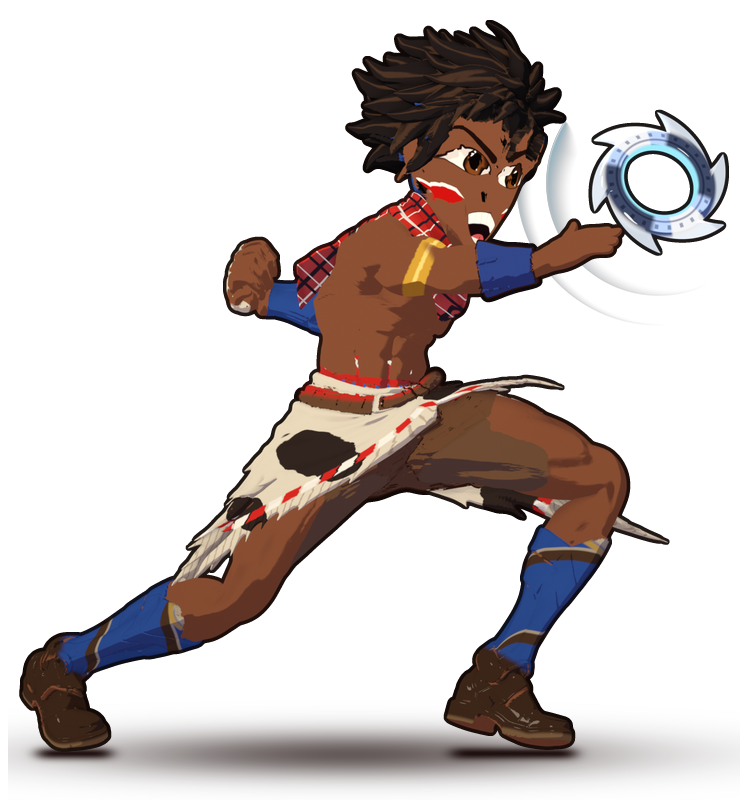
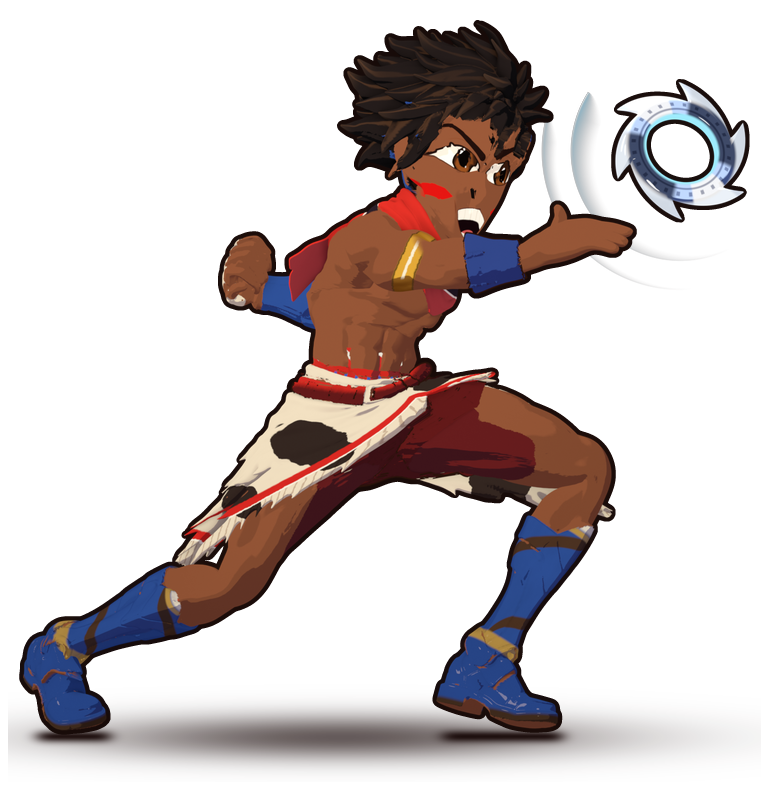
Hero key art k10 (won its blind A/B against k9; no sun on the hero): brighter clean key without cast shadows, three crisp skin bands, wrapped brass armlet, bold red scarf, kilt spikes and shreds cut away with a calm red hem, maroon underwrap, designed blue-and-gold boots, bigger releasing throw hand

Changed region(s): [[0.0307, 0.0, 0.984, 0.9418]]

diff --git a/New/tools/art/blender/hero_toon_aaa.py b/New/tools/art/blender/hero_toon_aaa.py
@@ -53,7 +53,8 @@ BANDS = {
 ## (linear; sRGB (0.52, 0.31, 0.2)) in three bands: a cool plum shade, a mid, a warm orange light, soft between
 SKIN = (0.237, 0.0757, 0.0331)  ## (key art k4: round 16's warm brown again; k2's cooler one "lit by a different light")  ## (key art k2: deeper and cooler, sRGB (0.45, 0.27, 0.19), "the same orange as the sky")
 SKIN_BANDS = {"day": ((0.62, 0.45, 0.62), (0.9, 0.82, 0.8), (1.16, 1.0, 0.82)),
-              "sunset": ((0.55, 0.5, 0.6), (0.55, 0.5, 0.6), (1.12, 1.07, 1.02))}  ## (k9, the user: "professional, AAA": a clean
+              "sunset": ((0.56, 0.5, 0.6), (1.0, 0.96, 0.92), (1.3, 1.24, 1.15))}  ## (k10: three bands, a soft cool
+## shade, his base and a bright lit plane where the key faces him: "darker and muddier than his surroundings")  ## (k9, the user: "professional, AAA": a clean
 ## key on his true colours: a near-white light, a soft, slightly cool shade, no sunset tint)  ## (k9 first, "no cool shade on the camera side:
 ## pasted on": a mauve shade, the light warm; k7 ((0.62, 0.37, 0.4), (1.14, 0.9, 0.7)))  ## (k7: a warm red-brown shade, "olive,
 ## muddy": was (0.56, 0.4, 0.56))  ## (key art k2: two tones, a plum shade
@@ -89,7 +90,7 @@ BOLD_STOPS = (0.0, 0.155, 0.185, 1.0)
 ## the face small, dark, blank; the ring a flat grey donut") the interface pictures (sunset): the skin and hands one
 ## clean colour (the albedo's mean; the face keeps its painted features), a warm shade (not a muddy purple-brown) and
 ## a slightly softer step, the face lit, the steel ring dark at its core and bright on its polish
-UI_FLAT = {"skin": SKIN, "hand": SKIN, "face": SKIN, "fur": (0.78, 0.7, 0.56), "belt": (0.15, 0.07, 0.033),
+UI_FLAT = {"skin": SKIN, "hand": SKIN, "face": SKIN, "fur": (0.78, 0.7, 0.56), "belt": (0.12, 0.011, 0.012),
            "armour_blue": (0.025, 0.075, 0.3), "armour_silver": (0.36, 0.33, 0.29)}  ## (k2: the blue desaturated, "royal-blue plastic stickers")  ## (round 14: flat, "mottled noise on the boots")  ## (linear: the albedo picture's mean skin, sRGB (0.588, 0.325, 0.189))
 UI_BANDS = {"skin": ((0.62, 0.4, 0.33), (1.12, 0.93, 0.78)), "hand": ((0.64, 0.42, 0.35), (1.12, 0.93, 0.78)),
             "face": ((0.84, 0.66, 0.58), (1.16, 0.98, 0.85)), "chakram": ((0.12, 0.15, 0.3), (1.3, 1.3, 1.36)),
@@ -99,7 +100,7 @@ UI_BANDS = {"skin": ((0.62, 0.4, 0.33), (1.12, 0.93, 0.78)), "hand": ((0.64, 0.4
 DAY_PURPLE = (1.556, 0.717, 2.185)  ## the savanna's evening purple (sRGB (0.6, 0.42, 0.7)) at a luminance of 1 (linear)
 DAY_PURPLE_K = 0.35  ## how far his shade turns to it in the level (round 14)
 UI_MAGENTA = (2.46, 0.61, 0.54)  ## the sunset's warm rose (sRGB (0.85, 0.45, 0.42)) at a luminance of 1 (linear)
-CLEAN_LIT = (1.08, 1.04, 1.0)  ## (key art k9, the user: "light him cleanly": one near-white key, a soft cool shade, the
+CLEAN_LIT = (1.16, 1.12, 1.08)  ## (k10: a brighter key; k9 (1.08, 1.04, 1.0))  ## (key art k9, the user: "light him cleanly": one near-white key, a soft cool shade, the
 CLEAN_SHADE = (0.55, 0.5, 0.6)  ## costume's own colours, no sunset wash)
 CLEAN_REGIONS = ("fur", "armour_blue", "armour_silver", "scarf", "belt")
 UI_MAGENTA_K = 0.0  ## (k9, the user: no sunset colour in his shade)  ## (round 14: "a touch of sunset magenta in his shadows"; round 15, "the sun right behind him, yet no
@@ -140,7 +141,7 @@ COW_DARK = (0.03, 0.018, 0.014)  ## (k9: black-brown; k7 (0.085, 0.032, 0.018)) 
 COW_SPOTS_FRONT = ((-0.058, 0.004, 0.034, 0.028), (0.052, 0.04, 0.026, 0.022), (-0.104, -0.08, 0.022, 0.02))
 COW_SPOTS_BACK = ((0.05, -0.06, 0.03, 0.026), (-0.07, -0.03, 0.026, 0.024))
 WRAP_STRAP = (0.07, 0.032, 0.016)  ## (key art k9, "plastic socks") the shin guards' binding straps, dark leather
-GUARD_CUFF = (0.5, 0.4, 0.26)  ## and their top cuff, a cream hide
+GUARD_CUFF = (0.72, 0.65, 0.52)  ## and their top cuff, white fur (k10; k9 a cream hide (0.5, 0.4, 0.26))
 HEM_BEADS = ((0.62, 0.02, 0.015), (0.85, 0.8, 0.68))  ## red, white (linear; k9: no blue, "no clear 2-3 colour identity")
 SASH_RED = (0.62, 0.025, 0.018)
 BOOT_LEATHER = (0.05, 0.022, 0.011)  ## the foot's leather (sRGB ~ (0.25, 0.16, 0.1)), with a gloss
@@ -350,7 +351,7 @@ def build(m, mode="day"):
         L = g.math("ADD", L, g.math("MULTIPLY", g.smooth(height, 0.0, 0.3), CHEST_LIFT))
     if region == "hair":  # the locks: their own terminator, broken per lock (round 15: big locks, "a fuzzy helmet")
         lock = g.noise(P, (9.0, 9.0, 9.0), 0.0, 0.4)  # (key art k3: 16 -> 9, 5-7 big locks, "a pineapple top")
-        L = g.math("ADD", L, g.math("MULTIPLY", g.math("SUBTRACT", lock, 0.5), 0.12 if mode == "sunset" else 0.3))  # (k9: "noisy highlights")
+        L = g.math("ADD", L, g.math("MULTIPLY", g.math("SUBTRACT", lock, 0.5), 0.3))  # (k10: k7's grouped locks back)
     deep, shade, mid, lit = BANDS[mode][region]
     ramp = g.node("ShaderNodeValToRGB")
     ramp.color_ramp.interpolation = "LINEAR"
@@ -372,7 +373,7 @@ def build(m, mode="day"):
             b3 = SKIN_BANDS[mode]
             lift = 1.08 if region == "face" else 1.0  # (the face a little lighter: it leads)
             cols = tuple(tuple(c * lift for c in b) for b in (b3[0], b3[0], b3[1], b3[1], b3[2], b3[2]))
-            stops = SKIN_STOPS if mode == "day" else (0.0, 0.1, 0.12, 0.2, 0.3, 1.0)  # (k2: one soft turn)
+            stops = SKIN_STOPS if mode == "day" else (0.0, 0.1, 0.13, 0.6, 0.66, 1.0)  # (k10: crisp edges between three bands; k2: one soft turn)
     else:
         stops, cols = STOPS, (deep, deep, shade, shade, mid, mid, lit, lit)
     el[0].position, el[0].color = stops[0], (*cols[0], 1)
@@ -418,16 +419,20 @@ def build(m, mode="day"):
                 sp = g.math("FRACT", g.math("DIVIDE", g.math("ADD", g.math("MULTIPLY", height, 52.0), ang), 6.2832))
                 strap = g.math("MULTIPLY", g.math("MULTIPLY", g.smooth(sp, 0.0, 0.02), g.smooth(sp, 0.16, 0.13)), guard)
                 alb = g.mix("MIX", strap, alb, WRAP_STRAP)
-                edge_l = g.math("MULTIPLY", g.math("MULTIPLY", g.smooth(sp, 0.12, 0.14), g.smooth(sp, 0.17, 0.155)), guard)
-                alb = g.mix("MIX", g.math("MULTIPLY", edge_l, 0.8), alb, GUARD_CUFF)
                 cuff = g.math("MULTIPLY", g.smooth(height, -0.246, -0.24), g.smooth(height, -0.214, -0.22))
                 alb = g.mix("MIX", cuff, alb, GUARD_CUFF)
+                # (key art k10, "laced brown shoes and blue sports socks: football kit, hiking boots") one designed boot:
+                # the foot in the guard's blue, a brass band round the ankle, a dark sole
+                foot = g.smooth(height, -0.405, -0.415)
+                alb = g.mix("MIX", foot, alb, g.mix("MULTIPLY", 1.0, UI_FLAT["armour_blue"], (0.85, 0.85, 0.9)))
+                ankle = g.math("MULTIPLY", g.smooth(height, -0.42, -0.416), g.smooth(height, -0.4, -0.404))
+                alb = g.mix("MIX", ankle, alb, BOOT_BRASS)
                 band = g.math("MULTIPLY", g.smooth(height, -0.253, -0.25), g.smooth(height, -0.243, -0.246))
             else:
                 band = g.math("MULTIPLY", g.smooth(height, -0.252, -0.246), g.smooth(height, -0.226, -0.232))
             alb = g.mix("MIX", band, alb, BOOT_BRASS)
-            sole = g.smooth(height, -0.491, -0.496) if mode == "sunset" else g.smooth(height, -0.466, -0.476)
-            alb = g.mix("MIX", sole, alb, BOOT_SOLE)  # (key art k7: in the pictures only its edge; it tanned half the shoe)
+            sole = g.smooth(height, -0.488, -0.494) if mode == "sunset" else g.smooth(height, -0.466, -0.476)
+            alb = g.mix("MIX", sole, alb, (0.05, 0.025, 0.013) if mode == "sunset" else BOOT_SOLE)  # (key art k7: in the pictures only its edge; it tanned half the shoe)
         if region == "fur":
             alb = g.mix("MULTIPLY", 1.0, albedo, (1.0, 0.97, 0.9))  # warm cream, never grey paper
         if region == "belt" and mode == "sunset" and BOLD and (not flat or m.name.startswith("AAA_underwrap")):
@@ -491,16 +496,16 @@ def build(m, mode="day"):
         # the hem's line: on the front apron a V, highest near the middle (rest: z -0.002 at y 0.02, falling 0.95 a unit
         # sideways); behind, level; the beaded band a little above it, a fringe of strands below the band
         hem_f = g.math("SUBTRACT", -0.002, g.math("MULTIPLY", g.math("ABSOLUTE", g.math("SUBTRACT", sepr.outputs["Y"], 0.02)), 0.95))
-        hem_z = g.math("ADD", g.math("MULTIPLY", hem_f, front_k), g.math("MULTIPLY", -0.125, g.math("SUBTRACT", 1.0, front_k)))
+        hem_z = g.math("ADD", g.math("MULTIPLY", hem_f, front_k), g.math("MULTIPLY", -0.163, g.math("SUBTRACT", 1.0, front_k)))  # (k10: the back cut clean at -0.165)
         rel = g.math("SUBTRACT", height, g.math("ADD", hem_z, 0.028))
         hem = g.math("MULTIPLY", g.smooth(rel, -0.001, 0.001), g.smooth(rel, 0.013, 0.011))
         fringe = g.math("MULTIPLY", g.smooth(rel, 0.0, -0.002), g.smooth(g.math("FRACT", g.math("MULTIPLY", sepr.outputs["Y"], 140.0)), 0.75, 0.85))
         colour = g.mix("MULTIPLY", g.math("MULTIPLY", fringe, 0.6), colour, (0.5, 0.36, 0.3))
-        ang_h = g.math("ARCTAN2", sepr.outputs["Y"], sepr.outputs["X"])
-        cyc = g.math("FRACT", g.math("MULTIPLY", ang_h, 30.0 / 6.2832))
-        for i, bead in enumerate(HEM_BEADS):
-            on = g.math("MULTIPLY", g.smooth(g.math("ABSOLUTE", g.math("SUBTRACT", cyc, (i + 0.5) / len(HEM_BEADS))), 0.5 / len(HEM_BEADS) - 0.02, 0.5 / len(HEM_BEADS) - 0.06), hem)
-            colour = g.mix("MIX", on, colour, g.mix("MULTIPLY", 1.0, g.mix("MULTIPLY", 1.0, ramp.outputs["Color"], (1.1, 1.1, 1.1)), bead))
+        # (key art k10, "the red-and-white candy-cane hem looks like barber tape") a calm band: solid red, one white
+        # line along its lower edge
+        colour = g.mix("MIX", hem, colour, g.mix("MULTIPLY", 1.0, ramp.outputs["Color"], HEM_BEADS[0]))
+        line = g.math("MULTIPLY", g.smooth(rel, -0.0025, -0.001), g.smooth(rel, 0.0012, 0.0002))
+        colour = g.mix("MIX", line, colour, g.mix("MULTIPLY", 1.0, ramp.outputs["Color"], HEM_BEADS[1]))
         sepu = g.node("ShaderNodeSeparateXYZ")
         g.link(geo.outputs["Normal"], sepu.inputs[0])
         colour = g.mix("MULTIPLY", g.math("MULTIPLY", g.smooth(sepu.outputs["Z"], 0.1, -0.5), 0.35), colour, (0.7, 0.62, 0.66))
@@ -533,7 +538,7 @@ def build(m, mode="day"):
         # (round 15, all three judges: "grey, silver-blue: reads aged") black hair: a warm band of light across the
         # big locks (sRGB (0.42, 0.27, 0.17) at its brightest), no blue-grey sheen, no grey third step
         locks = g.smooth(g.noise(P, (9.0, 9.0, 9.0), 0.0, 0.4), 0.4, 0.6)
-        band = g.math("MULTIPLY", band, g.math("ADD", g.math("MULTIPLY", locks, 0.7 if mode == "day" else 0.15), 0.3 if mode == "day" else 0.85))
+        band = g.math("MULTIPLY", band, g.math("ADD", g.math("MULTIPLY", locks, 0.7), 0.3))
         colour = g.mix("ADD", g.math("MULTIPLY", band, 0.85 if mode == "day" else 0.45), colour, (0.15, 0.06, 0.022))  # (k1's 1.2 lost; k5: near-black in the picture)  # (round 17: 0.5, "a smudge")
         sd = BOLD_RIM[mode][2]
         toward_sun = g.math("ADD", g.math("MULTIPLY", sep.outputs["X"], sd[0]), g.math("MULTIPLY", sep.outputs["Y"], sd[1]))
@@ -544,7 +549,7 @@ def build(m, mode="day"):
         g.link(P, cen.inputs[0])
         cen.inputs[1].default_value = HAIR_CENTRE
         tips = g.smooth(cen.outputs["Value"], 0.1, 0.16)
-        colour = g.mix("MIX", g.math("MULTIPLY", tips, 0.6 if mode == "day" else 0.2), colour, HAIR_TIPS)
+        colour = g.mix("MIX", g.math("MULTIPLY", tips, 0.6 if mode == "day" else 0.75), colour, HAIR_TIPS if mode == "day" else (0.13, 0.065, 0.035))  # (k10: "spiky, grouped locks with lighter tips")
     if region == "chakram":
         # engraving: a groove round the blade and a ring of notched marks, darker; a polished outer edge
         oc = uv.outputs["Object"]
@@ -582,15 +587,16 @@ def build(m, mode="day"):
     if region == "scarf" and mode == "sunset" and BOLD and not flat:
         # (key art k8) a red shuka: a check of thin dark lines with a white line beside each, in the cloth's own light;
         # (k9, "two or three folds and a shade tone") two broad diagonal folds across it, each a darker trough
-        fold = g.math("SINE", g.math("MULTIPLY", g.math("ADD", sepr.outputs["Z"], g.math("MULTIPLY", sepr.outputs["Y"], 0.8)), 75.0))
-        trough = g.smooth(fold, 0.35, 0.85)
-        colour = g.mix("MULTIPLY", g.math("MULTIPLY", trough, 0.55), colour, (0.55, 0.32, 0.42))
-        for ax, per in (("X", 38.0), ("Z", 38.0)):
-            v = g.math("FRACT", g.math("MULTIPLY", sepr.outputs[ax], per))
-            dark = g.smooth(g.math("ABSOLUTE", g.math("SUBTRACT", v, 0.5)), 0.43, 0.45)
-            white = g.smooth(g.math("ABSOLUTE", g.math("SUBTRACT", v, 0.38)), 0.035, 0.02)
-            colour = g.mix("MIX", white, colour, g.mix("MULTIPLY", 1.0, ramp.outputs["Color"], SCARF_LINES[1]))
-            colour = g.mix("MIX", dark, colour, g.mix("MULTIPLY", 1.0, ramp.outputs["Color"], SCARF_LINES[0]))
+        # (key art k10, "the fine tartan check turns to noise at phone size: lumberjack flannel") bold red cloth: one
+        # broad black stripe edged in white round it, and big folds, each a darker trough
+        fold = g.math("SINE", g.math("MULTIPLY", g.math("ADD", sepr.outputs["Z"], g.math("MULTIPLY", sepr.outputs["Y"], 0.8)), 42.0))
+        trough = g.smooth(fold, 0.2, 0.9)
+        colour = g.mix("MULTIPLY", g.math("MULTIPLY", trough, 0.6), colour, (0.5, 0.28, 0.38))
+        zz = g.math("ABSOLUTE", g.math("SUBTRACT", sepr.outputs["Z"], 0.279))
+        black = g.smooth(zz, 0.0085, 0.0075)
+        white = g.math("MULTIPLY", g.smooth(zz, 0.0105, 0.0095), g.smooth(zz, 0.0075, 0.0085))
+        colour = g.mix("MIX", white, colour, g.mix("MULTIPLY", 1.0, ramp.outputs["Color"], SCARF_LINES[1]))
+        colour = g.mix("MIX", black, colour, g.mix("MULTIPLY", 1.0, ramp.outputs["Color"], SCARF_LINES[0]))
     if region in ("skin", "hand") and mode == "sunset" and BOLD and not flat:
         # (key art k8) the gold armlet round each upper arm: a band across the arm, a bright line round its middle
         (c0, c1, c2), (d0, d1, d2) = ARM_AXIS
@@ -603,9 +609,15 @@ def build(m, mode="day"):
                                         g.math("MULTIPLY", dz, dz)), g.math("MULTIPLY", t, t))
         band = g.math("MULTIPLY", band, g.smooth(r2, 0.0016, 0.0012))  # (only round the arm: within 4 cm of its axis)
         gold = g.mix("MIX", g.smooth(L, 0.16, 0.24), GOLD_SHADE, GOLD)  # its own two values: brown-gold, gold
+        # (key art k10, "a sticky note or tape: no form, no metal highlight") brass wrapping the arm: darker as it turns
+        # away, a dark line along both edges, one crisp highlight where it faces us
+        gold = g.mix("MULTIPLY", g.math("MULTIPLY", g.smooth(edge, 0.2, 0.75), 0.75), gold, (0.3, 0.16, 0.05))
         colour = g.mix("MIX", band, colour, gold)
-        mid = g.math("MULTIPLY", band, g.smooth(g.math("ABSOLUTE", g.math("SUBTRACT", t, 0.003)), 0.003, 0.0012))
-        colour = g.mix("ADD", g.math("MULTIPLY", g.math("MULTIPLY", mid, g.smooth(L, 0.16, 0.24)), 0.45), colour, (1.0, 0.8, 0.35))
+        rims = g.math("MULTIPLY", band, g.math("MAXIMUM", g.smooth(t, -0.0055, -0.0075), g.smooth(t, 0.0115, 0.0135)))
+        colour = g.mix("MIX", rims, colour, (0.06, 0.025, 0.008))
+        mid = g.math("MULTIPLY", band, g.smooth(g.math("ABSOLUTE", g.math("SUBTRACT", t, 0.003)), 0.0022, 0.001))
+        shine = g.math("MULTIPLY", mid, g.smooth(edge, 0.35, 0.1))
+        colour = g.mix("MIX", g.math("MULTIPLY", shine, 0.9), colour, (1.0, 0.92, 0.7))
     if region == "belt" and BOLD and not flat:
         # (round 16) the belt carries the costume's pattern: a white zigzag round it, a row of blue beads under it
         ang_b = g.math("ARCTAN2", sepr.outputs["Y"], sepr.outputs["X"])

diff --git a/New/tools/art/hero_atlas.py b/New/tools/art/hero_atlas.py
@@ -122,7 +122,7 @@ INK_MIX = 0.3  ## share of the plain warm near-black ink in it (one family of li
 INK_LIT = 0.45  ## the line's width on the edges towards the sun, a share of its width on the shadow side
 
 
-def inked(arr: np.ndarray, px: float = INK_PX, ink: np.ndarray = INK, lit: float = INK_LIT) -> np.ndarray:
+def inked(arr: np.ndarray, px: float = INK_PX, ink: np.ndarray = INK, lit: float = INK_LIT, mix: float = INK_MIX) -> np.ndarray:
     """A frame with an ink line round its outer silhouette (anti-aliased), under the figure: the cel look's
     outline reads against the pale sky at phone size, inside lines stay thin. The line follows a calmed contour
     of the silhouette, so it keeps an even width, drawn at INK_SS x and reduced (smooth, no stair steps); round a
@@ -149,7 +149,7 @@ def inked(arr: np.ndarray, px: float = INK_PX, ink: np.ndarray = INK, lit: float
     width = 1.0 - (1.0 - lit) * f
     lum = local @ np.array([0.3, 0.59, 0.11])
     k = np.minimum(INK_DARK, INK_LUM / np.maximum(lum, 1e-3))
-    colour = local * k[..., None] * (1.0 - INK_MIX) + ink * INK_MIX
+    colour = local * k[..., None] * (1.0 - mix) + ink * mix
     big = np.asarray(Image.fromarray(a, "F").resize((w * ss, h * ss), Image.BILINEAR))
     wide = np.asarray(Image.fromarray(width.astype(np.float32), "F").resize((w * ss, h * ss), Image.BILINEAR))
     calm = ndimage.gaussian_filter(big, px * INK_CALM * ss)
@@ -293,7 +293,7 @@ def same_import(fn: str) -> None:
 
 def trimmed(path: Path, height: int, sunset: bool = False, under: np.ndarray | None = None,
             over: np.ndarray | None = None, ink_k: float = 1.0, rim=None, clean: bool = False,
-            ink_lit: float = INK_LIT) -> np.ndarray:
+            ink_lit: float = INK_LIT, ink_mix: float = INK_MIX) -> np.ndarray:
     """A render cut to what it shows and reduced to `height` px; `under` and `over` (RGBA 0..1, the render's size):
     layers drawn behind and in front of the figure, cut and reduced with it, with no ink round them (the menu's
     throw trail, the glint on its ring)."""
@@ -329,7 +329,7 @@ def trimmed(path: Path, height: int, sunset: bool = False, under: np.ndarray | N
         pad = sun_rim(pad, RIM_PX_UI * height / 300.0 * rim[2], (rim[0], rim[1]), fall=rim[3])
     else:
         pad = sun_rim(pad, RIM_PX_UI * height / 300.0, RIM_SUNSET if sunset else RIM_DAY)
-    out = inked(pad, ink, lit=ink_lit)
+    out = inked(pad, ink, lit=ink_lit, mix=ink_mix)
     if under is not None:
         u = premultiplied_resize(Image.fromarray((under * 255 + 0.5).astype(np.uint8), "RGBA").crop(box), k)
         low = np.zeros_like(out)
@@ -544,7 +544,7 @@ WIN_AIRBORNE = True  ## (hero pass 4: the win is a leap: his shadow on the groun
 WIN_SHADOW = False  ## (round 15) none under the leap
 MENU_RIM = (np.array([1.0, 0.6, 0.2]), 0.8, 1.15, 0.9)  ## (key art k8, "no hot rim on the sun side, the front the brightest
 ## part") a hot band inside his silhouette on the edges towards the sun (upper left): colour, strength, width, fall
-MENU_INK = 0.62  ## the menu picture's outline, a share of the others' (key art k6: "a sticker outline")
+MENU_INK = 0.78  ## (k10: 0.62, "thin or missing along the torso and arm edges")  ## the menu picture's outline, a share of the others' (key art k6: "a sticker outline")
 MENU_PIXELS = 550000  ## the menu picture's pixel budget (with its padding and shadow: no more than round 6's 0.61 Mpx)
 
 
@@ -560,7 +560,7 @@ def pictures() -> None:
     # the line went soft and uneven)
     k = min((MENU_PIXELS / (hero.shape[0] * hero.shape[1])) ** 0.5, 1.0)
     menu = trimmed(ui / "menu_hero/000.png", int(round(1100 * k)), sunset=True, under=swoosh_trail(ui / "menu_hero"),
-                   ink_k=MENU_INK, clean=True, ink_lit=1.0)  # (key art k9, the user: "remove the sun reflect on the
+                   ink_k=MENU_INK, clean=True, ink_lit=1.0, ink_mix=0.85)  # (k10, "the outline flickers": one dark line)  # (key art k9, the user: "remove the sun reflect on the
     # character": no rim band, no glint from the sun on the ring, an even line all round)
     save(grounded(menu, strength=1.6, tight=0.55), "hero_menu.png")  # (key art k8, "no contact shadow under either boot": a darker, tighter contact)  # (key art k5: no glow round him, "a dark soft halo"; a firmer contact shadow)  # (k2: "no contact shadow under the boots")
     # the portrait: 660 x 752 from his hair to his hips (round 16: from its own render, standing, his face to us)

diff --git a/New/tools/art/blender/hero_render.py b/New/tools/art/blender/hero_render.py
@@ -222,6 +222,7 @@ def copy_fingers():
 HANDS = {  # (round 15, "mittens") per hand shape: the bend at each joint (degrees), the spread, the thumb's bend
     "fist": ((88, 100, 75), 0.0, 70.0),  # (key art k3: tighter, the thumb wrapped over, "a mitten")
     "open": ((4, 6, 3), 9.0, -8.0),
+    "release": ((10, 16, 12), 14.0, -24.0),  # (key art k10) the fingers opening as the ring leaves the palm, the thumb out
     "relaxed": ((24, 32, 20), 3.0, 12.0),
     "brace": ((10, 12, 6), 7.0, 0.0),
 }
@@ -937,13 +938,14 @@ def heel_up(side, k=0.5):
 THROW_TWIST = float(os.environ.get("THROW_TWIST", "18"))  ## degrees his shoulders turn against his hips at the release
 THROW_HIPS = float(os.environ.get("THROW_HIPS", "0.05"))  ## metres his hips drive towards the throw
 THROW_STANCE = float(os.environ.get("THROW_STANCE", "0.8"))  ## the lunge's width, a share of the authored one
-THROW_RING = float(os.environ.get("THROW_RING", "0.14"))  ## metres the ring has flown from his hand (the title screen
+THROW_RING = float(os.environ.get("THROW_RING", "0.19"))  ## (key art k10: 0.14, "pinches the chakram at its rim": the ring just left the open hand)  ## metres the ring has flown from his hand (the title screen
 ## keeps it inside its left two fifths, where the close-ups are cut)
 
 
 KEY_BUILD = {  # (key art k9, "a stringy, narrow torso and thin upper arms against heavy thighs and big boots") the key
     # art's build: bone scales across the bone (x, z; y runs along it), the children not inheriting them
-    "Spine2": (1.12, 1.0, 1.05), "Neck": (1.14, 1.0, 1.14), "LeftArm": (1.14, 1.0, 1.14), "RightArm": (1.14, 1.0, 1.14),
+    "Spine2": (1.18, 1.0, 1.08), "Neck": (1.18, 1.0, 1.18), "LeftArm": (1.2, 1.0, 1.2), "RightArm": (1.2, 1.0, 1.2),
+    "LeftForeArm": (1.1, 1.0, 1.1), "RightForeArm": (1.1, 1.0, 1.1),  # (key art k10: chunkier, "commit to one style")
     "LeftUpLeg": (0.92, 1.0, 0.92), "RightUpLeg": (0.92, 1.0, 0.92), "LeftLeg": (0.94, 1.0, 0.94), "RightLeg": (0.94, 1.0, 0.94),
     "LeftFoot": (0.95, 0.95, 0.95), "RightFoot": (0.95, 0.95, 0.95)}
 
@@ -981,7 +983,8 @@ def pose_key_throw():
     _aim_world("LeftArm", Vector((-0.8, 0.25, -0.35)).normalized())  # the free arm back, out from his side
     _aim_world("LeftForeArm", Vector((-0.55, 0.05, 0.1)).normalized())
     hand("Left", "fist")  # (k1's open palm lost: "a flat stop gesture that fights the throw")
-    hand("Right", "open")
+    hand("Right", "release")
+    ARM.pose.bones[P + "RightHand"].scale = (1.25,) * 3  # (key art k10, "the front hand is tiny")
     turn("Spine2", -16.0, (0.0, 0.0, 1.0))  # (key art k9: -10, "the head turns 3/4 on a profile body: the thin neck looks
     # twisted": the chest further to us, the head less)  # (key art k2: the chest a little to us, so the neck doesn't twist)
     turn("Neck", -6.0)  # (key art k1, kept: his face to us, chin up: "a stern profile, the face too small")
@@ -2098,6 +2101,10 @@ def toon_setup():
     fill = add_sun("ToonFill", (1.0, 0.85, 0.7), 0.42 if mode == "day" else 0.3,
                    aim_from=(-0.75, -0.55, 0.15) if mode == "day" else (-0.9, -0.2, 0.3), angle=8.0)
     fill.parent = rig
+    if mode == "sunset" and os.environ.get("KEY_SHADOWS", "0") != "1":  # (key art k10, "blotchy dark-brown patches on the
+        # abs, chest, thighs: dirt": the pictures' light shapes his forms only, no cast-shadow patches)
+        key.data.use_shadow = False
+        fill.data.use_shadow = False
     if mode == "sunset":  # and a small light on his face, placed for each pose (face_light())
         data = bpy.data.lights.new("FaceLight", "POINT")
         data.color = (1.0, 0.78, 0.6)
@@ -2105,6 +2112,7 @@ def toon_setup():
         data.shadow_soft_size = 0.05
         data.use_custom_distance = True
         data.cutoff_distance = 0.32
+        data.use_shadow = os.environ.get("KEY_SHADOWS", "0") == "1"
         ob = bpy.data.objects.new("FaceLight", data)
         SC.collection.objects.link(ob)
     seen = set()

diff --git a/New/tools/art/hero_face.py b/New/tools/art/hero_face.py
@@ -307,7 +307,7 @@ def stripe(cv):
         body = [(x0, y0 + th * 0.5), (x0 + side * 34.0, y0), (x1, y0 - rise), (x1, y0 - rise + th), (x0 + side * 34.0, y0 + th)]
         top = [(x0 - side * 6.0, y0 + th * 0.5 - 4.0), (x0 + side * 30.0, y0 - 11.0), (x1 + side * 2.0, y0 - rise - 11.0),
                (x1 + side * 2.0, y0 - rise + 4.0), (x0 + side * 34.0, y0 + 4.0)]
-        cv.paint(PAINT_WHITE, cv.mask(lambda d, s, q=top: d.polygon([(x * s, y * s) for x, y in q], fill=255)))
+        # (key art k10, "the white paint around the eye reads as a bandage or mask patch; the red stripe works") red only
         cv.paint(PAINT_RED, cv.mask(lambda d, s, q=body: d.polygon([(x * s, y * s) for x, y in q], fill=255)))
 
 
